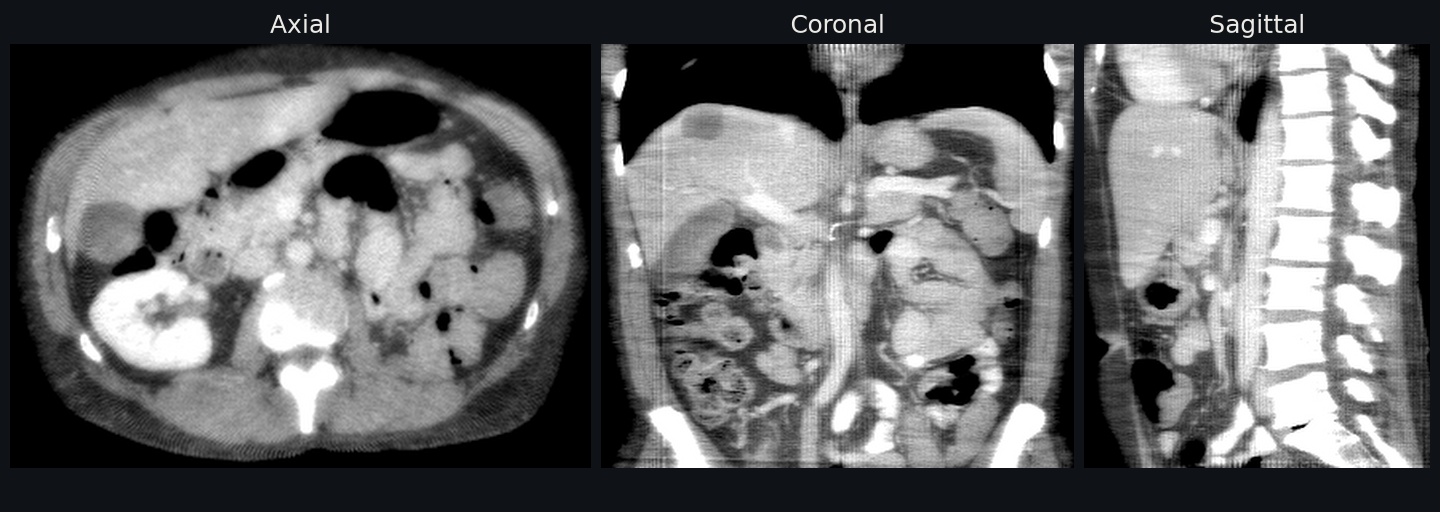
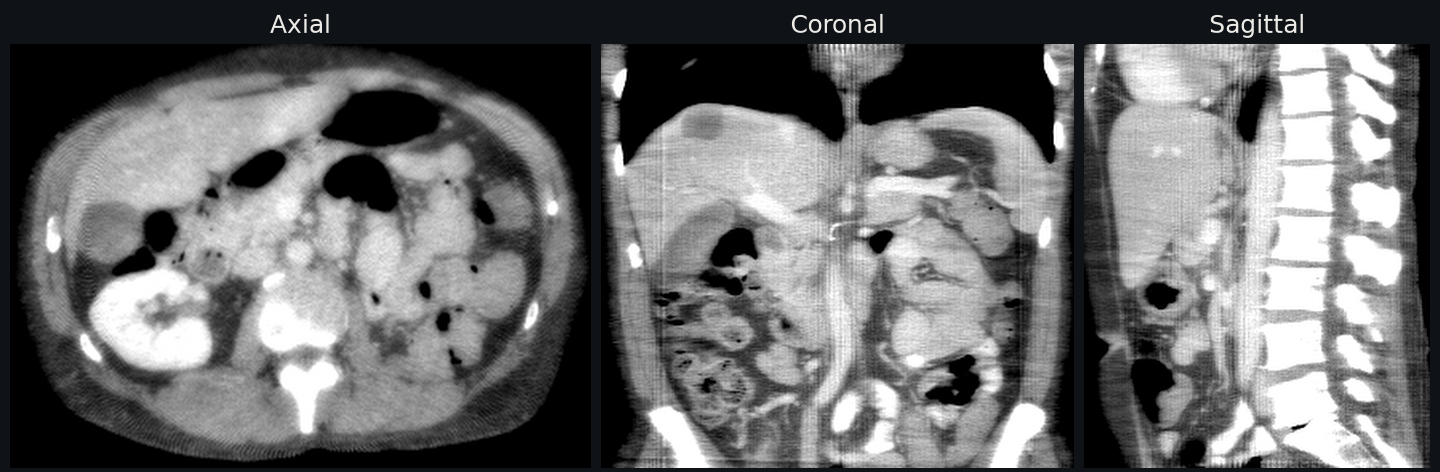
Tighten the README figure crops

diff --git a/docs/assets/gallery/render.py b/docs/assets/gallery/render.py
@@ -14,6 +14,7 @@ import numpy as np
 
 matplotlib.use("Agg")
 import matplotlib.pyplot as plt  # noqa: E402
+from PIL import Image  # noqa: E402
 
 ROOT = Path(__file__).resolve().parents[3]
 OUT = ROOT / "docs" / "source" / "_static" / "gallery"
@@ -64,13 +65,21 @@ def figure(rows, columns, height=None):
     return fig, axes
 
 
-def save(fig, name, row_labels=None, axes=None):
+def save(fig, name, row_labels=None, axes=None, trim_bottom=False):
     if row_labels is not None:
         for ax, label in zip(axes[:, 0], row_labels):
             ax.set_ylabel(label, color=MUTED)
     fig.tight_layout(pad=.4, w_pad=.4, h_pad=.6)
-    fig.savefig(OUT / name, dpi=DPI, facecolor=fig.get_facecolor())
+    path = OUT / name
+    fig.savefig(path, dpi=DPI, facecolor=fig.get_facecolor())
     plt.close(fig)
+    if trim_bottom:
+        im = Image.open(path).convert("RGB")
+        array = np.asarray(im)
+        used = np.any(array != np.array((15, 18, 22), dtype=np.uint8), axis=(1, 2))
+        end = min(np.max(np.flatnonzero(used)) + 5, array.shape[0])
+        if end < array.shape[0]:
+            im.crop((0, 0, array.shape[1], end)).save(path)
     print("saved", name)
 
 
@@ -244,7 +253,7 @@ def readme_methods(data, case="fan120"):
     fig, axes = figure(1, len(names))
     for column, (array, title) in enumerate(names):
         image(axes[0, column], array[box], SOFT_TISSUE, title)
-    save(fig, "readme_methods.png")
+    save(fig, "readme_methods.png", trim_bottom=True)
 
 
 def readme_clinical(data, iteration=15):
@@ -273,7 +282,7 @@ def readme_clinical(data, iteration=15):
                              gridspec_kw={"width_ratios": ratios})
     for column, (panel, title) in enumerate(panels):
         image(axes[0, column], panel, SOFT_TISSUE, title)
-    save(fig, "readme_clinical.png")
+    save(fig, "readme_clinical.png", trim_bottom=True)
 
 
 def main():
